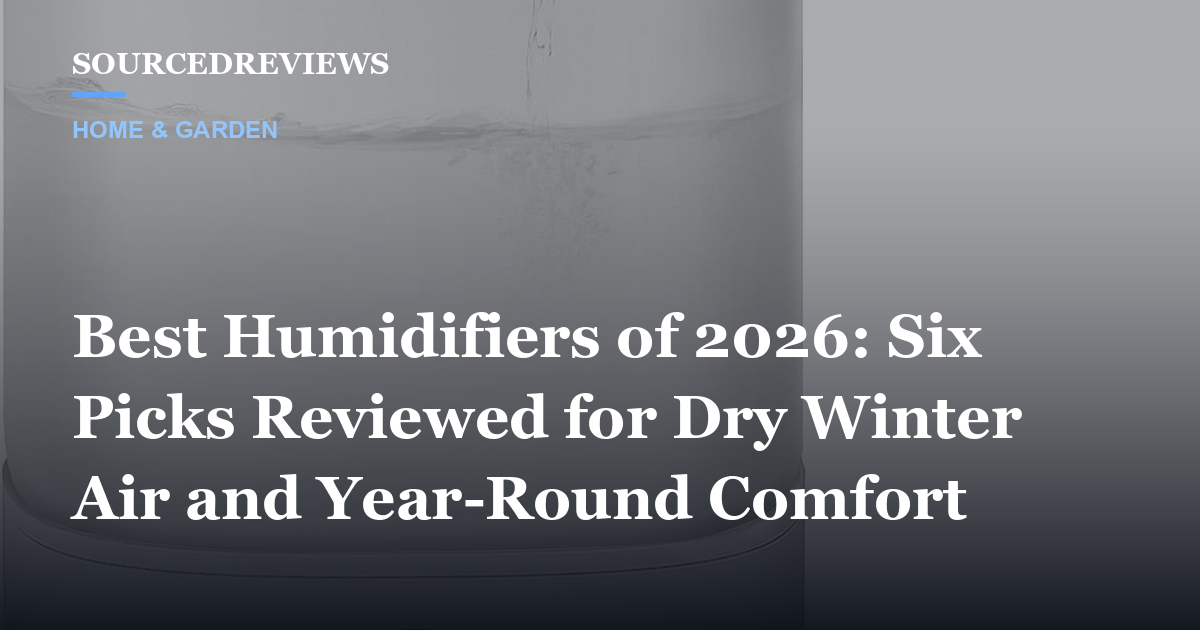
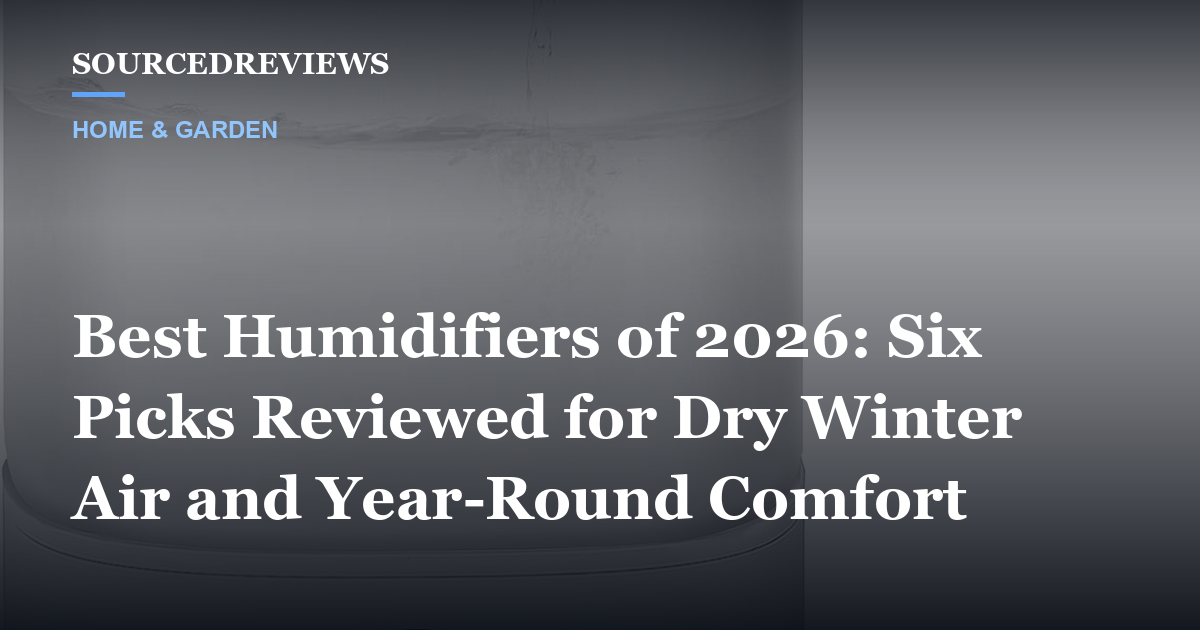
Fix two inaccurate image alt texts, add top scrim to OG cards, align TAB 10 thickness
- tcl-tab-a1-review: pick-1.jpg alt described the body-spec graphic; the image
  is actually the 'Immersive Home Entertainment' parent-and-child scene with
  11-inch 2K / 90Hz / 650 nits / NXTVISION / quad-speaker badges
- tcl-tab-a1-plus-review: pick-1.jpg alt claimed NXTVISION; the image carries
  12.2-inch 2.4K / 120Hz / 550 nits / 100% sRGB badges instead
- best-tcl-tablets-2026: a1-display.jpg alt said 2K, the graphic says 2.1K
- tcl-tab-10-gen-4-review: leading paragraph still said 7.55mm, now 7.5mm to
  match TCL's own build graphic and the spec list
- scripts/generate-og-images.py: add a top gradient band so the SOURCEDREVIEWS
  wordmark and category eyebrow stay legible over pale hero images; regenerated
  all 28 OG cards plus og-default.png

Changed region(s): [[0.0, 0.0, 1.0, 0.2714]]

diff --git a/scripts/generate-og-images.py b/scripts/generate-og-images.py
@@ -71,19 +71,28 @@ def cover(img, width, height):
 
 
 def scrim(img):
-    """Darken the frame and deepen the lower-left corner so text stays legible."""
+    """Darken the frame, deepen the lower-left corner for the headline, and shade
+    the top band so the wordmark and category eyebrow stay legible even when the
+    hero image is pale in that corner."""
     base = img.convert("RGB")
     veil = Image.new("RGB", base.size, (8, 12, 20))
     base = Image.blend(base, veil, 0.34)
+
+    dark = Image.new("RGB", base.size, (6, 10, 18))
 
     grad = Image.new("L", (1, base.size[1]))
     for y in range(base.size[1]):
         t = y / max(1, base.size[1] - 1)
         grad.putpixel((0, y), int(235 * max(0.0, (t - 0.18) / 0.82) ** 1.35))
     grad = grad.resize(base.size)
+    base = Image.composite(dark, base, grad)
 
-    dark = Image.new("RGB", base.size, (6, 10, 18))
-    return Image.composite(dark, base, grad)
+    top = Image.new("L", (1, base.size[1]))
+    for y in range(base.size[1]):
+        t = y / max(1, base.size[1] - 1)
+        top.putpixel((0, y), int(185 * max(0.0, (0.36 - t) / 0.36) ** 1.1))
+    top = top.resize(base.size)
+    return Image.composite(dark, base, top)
 
 
 def wrap(draw, text, font, max_width):

diff --git a/src/content/reviews/tcl-tab-10-gen-4-review.md b/src/content/reviews/tcl-tab-10-gen-4-review.md
@@ -10,7 +10,7 @@ author: "Ryan Mitchell"
 
 The TCL TAB 10 Gen 4 is the most simply specified tablet in TCL's range, and that is not an insult — it is the point of the product. It is the smallest, the lightest, the only one with a headphone jack, and the only one whose entire software pitch is aimed at a parent handing a device to a child. Where the A1 Plus spends its budget on a 2.4K 120Hz panel and an aluminum body, the TAB 10 Gen 4 spends it on being portable and on having the parental controls switched on from the first boot.
 
-What you get for that is a 10.1-inch IPS panel at 1920 by 1200 in a 16:10 shape with TCL's NXTVISION enhancement, a MediaTek MT8786V octa-core chip with NXTURBO, Android 15, a 6,000mAh battery with up to 18W charging, and a metal unibody body at 7.55mm and 395g. You also get a 3.5mm headphone jack, which no other tablet in this range has.
+What you get for that is a 10.1-inch IPS panel at 1920 by 1200 in a 16:10 shape with TCL's NXTVISION enhancement, a MediaTek MT8786V octa-core chip with NXTURBO, Android 15, a 6,000mAh battery with up to 18W charging, and a metal unibody body at 7.5mm and 395g. You also get a 3.5mm headphone jack, which no other tablet in this range has.
 
 This is a single-product review, not a roundup. We base it on manufacturer specifications, published coverage of the range, and aggregated verified-buyer feedback rather than our own trials. Our full method is on the [Our Method](/our-method/) page, and every source we relied on is listed at the bottom. We did not perform hands-on testing of this product.
 

diff --git a/src/content/reviews/best-tcl-tablets-2026.md b/src/content/reviews/best-tcl-tablets-2026.md
@@ -78,7 +78,7 @@ The display is an 11-inch 2.1K panel at 2112 by 1320 pixels in a 16:10 shape, ru
 
 Underneath sits a MediaTek Helio G100, a 6nm octa-core chip paired with TCL's NXTURBO hardware-software optimization. It is a more modest piece of silicon than the Snapdragon in the A1 Plus, and Notebookcheck's launch coverage of the A1 and the A1 NxTPAPER described the pair as affordable 11-inch tablets built around a 90Hz panel and the 8,000mAh battery rather than around performance. If the A1 Plus is the better tablet and the A1 is the smarter purchase, this is why.
 
-![TCL TAB A1 graphic showing the 11-inch 2K display, 650 nits, metal unibody at 430g and 6.2mm, and the 8000mAh battery](/images/reviews/tcl-tablets/a1-display.jpg)
+![TCL TAB A1 graphic showing the 11-inch 2.1K display, 650 nits, metal unibody at 430g and 6.2mm, and the 8000mAh battery](/images/reviews/tcl-tablets/a1-display.jpg)
 
 ![A woman on a video call watching a child and a dog on a TCL TAB A1 held in landscape orientation](/images/reviews/tcl-tablets/a1-family.jpg)
 

diff --git a/src/content/reviews/tcl-tab-a1-review.md b/src/content/reviews/tcl-tab-a1-review.md
@@ -26,7 +26,7 @@ The A1 is an 11-inch Android 16 tablet built on a MediaTek Helio G100 octa-core 
 
 The 11-inch panel runs at 2112 by 1320 pixels in a 16:10 shape with an adaptive 90Hz refresh rate and TCL's NXTVISION color enhancement. Four speakers with Sound Booster handle audio, and the 5MP front camera sits centered on the long edge with CenterFace tracking to keep you framed in video calls.
 
-![TCL TAB A1 display graphic showing the 11-inch 2K panel, 650 nits, metal unibody at 430g and 6.2mm, AI features, and the 8000mAh battery](/images/reviews/tcl-tab-a1/pick-1.jpg)
+![TCL TAB A1 graphic showing a parent and child watching a film together, with the 11-inch 2K display, 90Hz refresh rate, 650 nits peak brightness, NXTVISION color enhancement, and quad speakers](/images/reviews/tcl-tab-a1/pick-1.jpg)
 
 - **Display:** 11-inch 2.1K (2112 × 1320), adaptive 90Hz, up to 650 nits peak, 16:10, NXTVISION enhancement
 - **Processor and memory:** MediaTek Helio G100 octa-core (6nm) with NXTURBO, 6GB RAM plus up to 10GB expansion (16GB total)

diff --git a/src/content/reviews/tcl-tab-a1-plus-review.md b/src/content/reviews/tcl-tab-a1-plus-review.md
@@ -18,7 +18,7 @@ The A1 Plus is the largest and most expensive tablet TCL sells in this range. It
 
 What matters here is that this is not a tablet with a large screen and entry-level everything else. The display, the build, the battery, and the software are all at or above the level of the rest of TCL's range, and the price reflects that.
 
-![TCL TAB A1 Plus display graphic showing the 12.2-inch 2.4K panel, NXTVISION enhancement, and 120Hz refresh rate](/images/reviews/tcl-tab-a1-plus/pick-1.jpg)
+![TCL TAB A1 Plus graphic showing a woman watching video on the tablet, with the 12.2-inch 2.4K display, 120Hz refresh rate, 550 nits brightness, and 100% sRGB color](/images/reviews/tcl-tab-a1-plus/pick-1.jpg)
 
 - **Display:** 12.2-inch 2.4K (2400 × 1600), 120Hz, 550 nits, 100% sRGB, 3:2 aspect ratio, DC dimming
 - **Processor and memory:** Snapdragon 4 Gen 2 (4nm) with LPDDR5, 6GB RAM plus up to 10GB expansion (16GB total), Adreno 613 graphics
